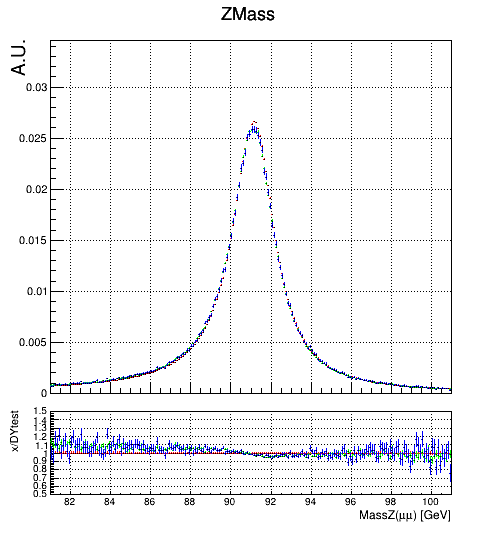
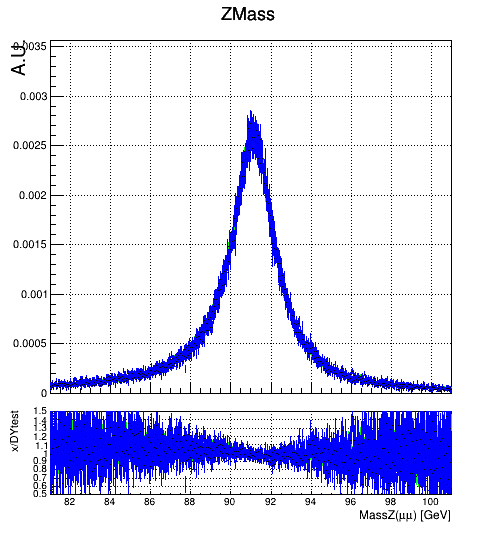
plotter.py add parser

diff --git a/Plotter/plotter.py b/Plotter/plotter.py
@@ -8,6 +8,7 @@ parser = argparse.ArgumentParser(description="test")
 parser.add_argument("--hist", required=True, help="histogram name")
 parser.add_argument("--xAxis", required=True, help="x axis name")
 parser.add_argument("--yAxis", required=True, help="y axis name")
+parser.add_argument("--rebin", default=-1, help="rebin factor")
 
 args = parser.parse_args()
 
@@ -30,6 +31,7 @@ hists = {}
 hist_name = str(args.hist)
 x_axis = str(args.xAxis)
 y_axis = str(args.yAxis)
+rebin = int(args.rebin)
 #hist_name = "ZMass_ee"
 #x_axis = "M(ee)"
 #y_axis = "A.U."
@@ -51,7 +53,7 @@ for file_name in file_names:
         raise(NameError)
 
 kDist = kDistributions()
-kDist.get_hists(hists=hists, scale="normalize", rebin=10)
+kDist.get_hists(hists=hists, scale="normalize", rebin=rebin)
 kDist.generate_ratio(base_name="DYtest")
 kDist.deco_hists(y_title=y_axis)
 kDist.deco_ratio(x_title=x_axis, y_title="x/DYtest")
